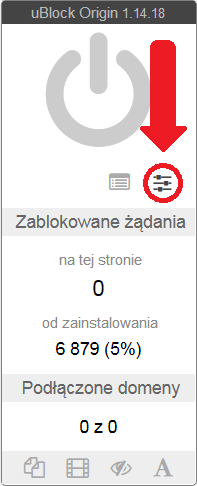
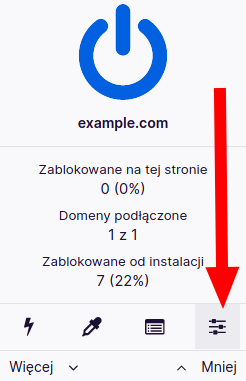
Aktualizacja wiki

diff --git a/website/content/pl/docs/basic/Dodawanie-i-aktualizacja-filtrow-w-Adblock-Plus,-uBlock-Origin-lub-AdGuard.md b/website/content/pl/docs/basic/Dodawanie-i-aktualizacja-filtrow-w-Adblock-Plus,-uBlock-Origin-lub-AdGuard.md
@@ -21,27 +21,27 @@ slug: "add-update-filter"
 ## 2. Ręcznie
 <ul>
 
-#### Adblock Plus
+<!-- #### Adblock Plus
 
 * W miejsce 3 wklejasz adres z listą filtrów np.
    ```
    https://raw.githubusercontent.com/MajkiIT/polish-ads-filter/master/polish-adblock-filters/adblock.txt
    ```
 
-   [![Adblock Plus](https://user-images.githubusercontent.com/5884000/38175733-6515e8dc-35e1-11e8-9945-06413f716eb7.jpg "Dodawanie filtrów na przykładzie przeglądarki Maxthon w dodatku Adblock Plus")](https://raw.githubusercontent.com/MajkiIT/polish-ads-filter/master/images/563629da0110b_Beztytuu.jpg.b1a682e45ed27b33a1b85093ce1d7ef1.jpg)
+   [![Adblock Plus](https://user-images.githubusercontent.com/5884000/38175733-6515e8dc-35e1-11e8-9945-06413f716eb7.jpg "Dodawanie filtrów na przykładzie przeglądarki Maxthon w dodatku Adblock Plus")](https://user-images.githubusercontent.com/5884000/38175733-6515e8dc-35e1-11e8-9945-06413f716eb7.jpg) -->
 
 
 #### uBlock Origin / Nano Adblocker
 
-* W miejsce 2 wklejasz adres z listą filtrów np.
+* W miejsce 3 wklejasz adres z listą filtrów np.
    ```
-   https://raw.githubusercontent.com/MajkiIT/polish-ads-filter/master/polish-adblock-filters/adblock.txt
+   https://raw.githubusercontent.com/PolishFiltersTeam/KAD/master/KAD.txt
    ```
 
 
-   ![ubo](../../../images/wiki/uBO_add1.png "klikamy w przycisk ustawień")]
+   ![ubo](../../../images/wiki/uBO_add1.png "klikamy w przycisk ustawień")
 
-   ![ubo-settings](../../../images/wiki/uBO_add2.png "aktywujemy zakładkę zewnętrzne filtry, przewijamy stronę do końca i wklejamy link z filtrami do pola na dole, potem klikamy zastosuj")]
+   ![ubo-settings](../../../images/wiki/uBO_add2.png "aktywujemy zakładkę zewnętrzne filtry, przewijamy stronę do końca i wklejamy link z filtrami do pola na dole, potem klikamy zastosuj")
 </ul>
 </ul>
 
@@ -51,9 +51,9 @@ slug: "add-update-filter"
 #### uBlock Origin / Nano Adblocker
 <ul>
 
-![ublock-origin-ustawienia-wtyczki](../../../images/wiki/uBO_update.jpg)
+![ublock-origin-ustawienia-rozszerzenia](../../../images/wiki/uBO_update.png)
 
-![aktualizacja-filtrow-w-ublock-origin](../../../images/wiki/uBO_update.gif)
+![aktualizacja-filtrow-w-ublocku-origin](../../../images/wiki/uBO_update2.gif)
 
 </ul>
 </ul>

diff --git a/website/content/pl/docs/advanced/Jak-blokowac-reklamy-w-przegladarce-Yandex-na-Androidzie.md b/website/content/pl/docs/advanced/Jak-blokowac-reklamy-w-przegladarce-Yandex-na-Androidzie.md
@@ -18,7 +18,9 @@ tags:
 
 
 ## A) Yandex + Nano Adblocker + Nano Defender
-(wersja wideo - już wkrótce)
+<hr><blockquote><details><summary>Wersja wideo</summary><br>
+{{< youtube 9k6tvyyowk0 >}}
+</details></blockquote><hr>
 
 Aby zainstalować Nano Adblocker dla Yandexa, powinieneś wykonać parę kroków:
 
@@ -46,8 +48,13 @@ Do tego zestawu warto jeszcze doinstalować Nano Defender, który zajmie się sk
 10. Sprawdź, czy działa. Wejdź na [antiblock.org/?p=v3&demo](http://antiblock.org/?p=v3&demo "http://antiblock.org/?p=v3&demo"). Jeśli wyświetli się komunikat _„Please disable your ad blocker!"_, to znaczy, że być może zrobiłeś coś nie tak, jak trzeba, a jeśli nie, to gotowe!--->
 
 ## B) Yandex + uBlock Origin + Nano Defender
-(wersja wideo (instalowanie) :arrow_right: [www.youtube.com/watch?v=nmEs0J4M-7I](https://www.youtube.com/watch?v=nmEs0J4M-7I "https://www.youtube.com/watch?v=nmEs0J4M-7I"))
-(wersja wideo (aktualizowanie) :arrow_right: [www.youtube.com/watch?v=k9t9PRDn5MU](https://www.youtube.com/watch?v=k9t9PRDn5MU "https://www.youtube.com/watch?v=k9t9PRDn5MU"))
+<hr><blockquote><details><summary>Wersja wideo (instalowanie)</summary><br>
+{{< youtube nmEs0J4M-7I >}}
+</details></blockquote><hr>
+
+<hr><blockquote><details><summary>Wersja wideo (aktualizowanie)</summary><br>
+{{< youtube k9t9PRDn5MU >}}
+</details></blockquote><hr>
 
 Aby zainstalować uBlock Origin (w wersji stabilnej) dla Yandexa, powinieneś wykonać parę kroków:
 1. Po zainstalowaniu Yandex Browser możesz wejść w jego **ustawienia** (settings) i odznaczyć **show Yandex Zen** (Zen pokazuje newsy z różnych stron, wg. zainteresowań, historii, lokalizacji i innych czynników) i **show ads above Tableau** (to są oczywiście reklamy), następnie wejdź w **notifications** i odznacz **show Tableau in the notifications bar** (Tableau to widgety najczęściej odwiedzanych stron, w tym przypadku wyświetlane na pasku). Potem wróć do głównych ustawień i ustaw **Shocking ad blocker** na **Disabled**.

diff --git a/website/content/pl/docs/advanced/Jak-zainstalowac-Nano-Defender-na-Firefoksie,-Waterfoksie,-(Chr)Operze-albo-Chrome.md b/website/content/pl/docs/advanced/Jak-zainstalowac-Nano-Defender-na-Firefoksie,-Waterfoksie,-(Chr)Operze-albo-Chrome.md
@@ -57,7 +57,9 @@ slug: "install-nano-defender"
 
 
 ## **III. ![Opera][Opera]<sub><sup>(CHR)</sup></sub>OPERA**
-(wersja wideo - [www.youtube.com/watch?v=R5iB1-6B1A0](https://www.youtube.com/watch?v=R5iB1-6B1A0 "https://www.youtube.com/watch?v=R5iB1-6B1A0"))
+<hr><blockquote><details><summary>Wersja wideo</summary><br>
+{{< youtube R5iB1-6B1A0 >}}
+</details></blockquote><hr>
 
 1. Zainstaluj [**Download Chrome Extension**](https://addons.opera.com/pl/extensions/details/download-chrome-extension-9/?display=en "https://addons.opera.com/pl/extensions/details/download-chrome-extension-9/?display=en").
 

diff --git a/website/content/pl/docs/basic/Jak-stworzyc,-opublikowac-i-zaladowac-kopie-zapasowa-ustawien-uBlocka-Origin-lub-Nano-Adblockera.md b/website/content/pl/docs/basic/Jak-stworzyc,-opublikowac-i-zaladowac-kopie-zapasowa-ustawien-uBlocka-Origin-lub-Nano-Adblockera.md
@@ -7,6 +7,6 @@ slug: "uBO-backup"
 
 W panelu sterowania uBlocka/Nano Adblockera, w karcie ustawienia, kliknij **utwórz kopię zapasową**. Następnie zapisz plik, a potem wrzuć go na https://gist.github.com/ i podaj link.
 
-![2017-12-09 11_05_48-nano panel sterowania](../../../images/wiki/Nano_backup.png)
+![Panel sterowania uBO](../../../images/wiki/uBO_backup.png)
 
-Aby załadować, pobierz plik, następnie kliknij przycisk **przywróć z kopii**, wybierz i załaduj.
+Aby załadować kopię, pobierz plik, następnie kliknij przycisk **przywróć z kopii**, potem wybierz i załaduj.
